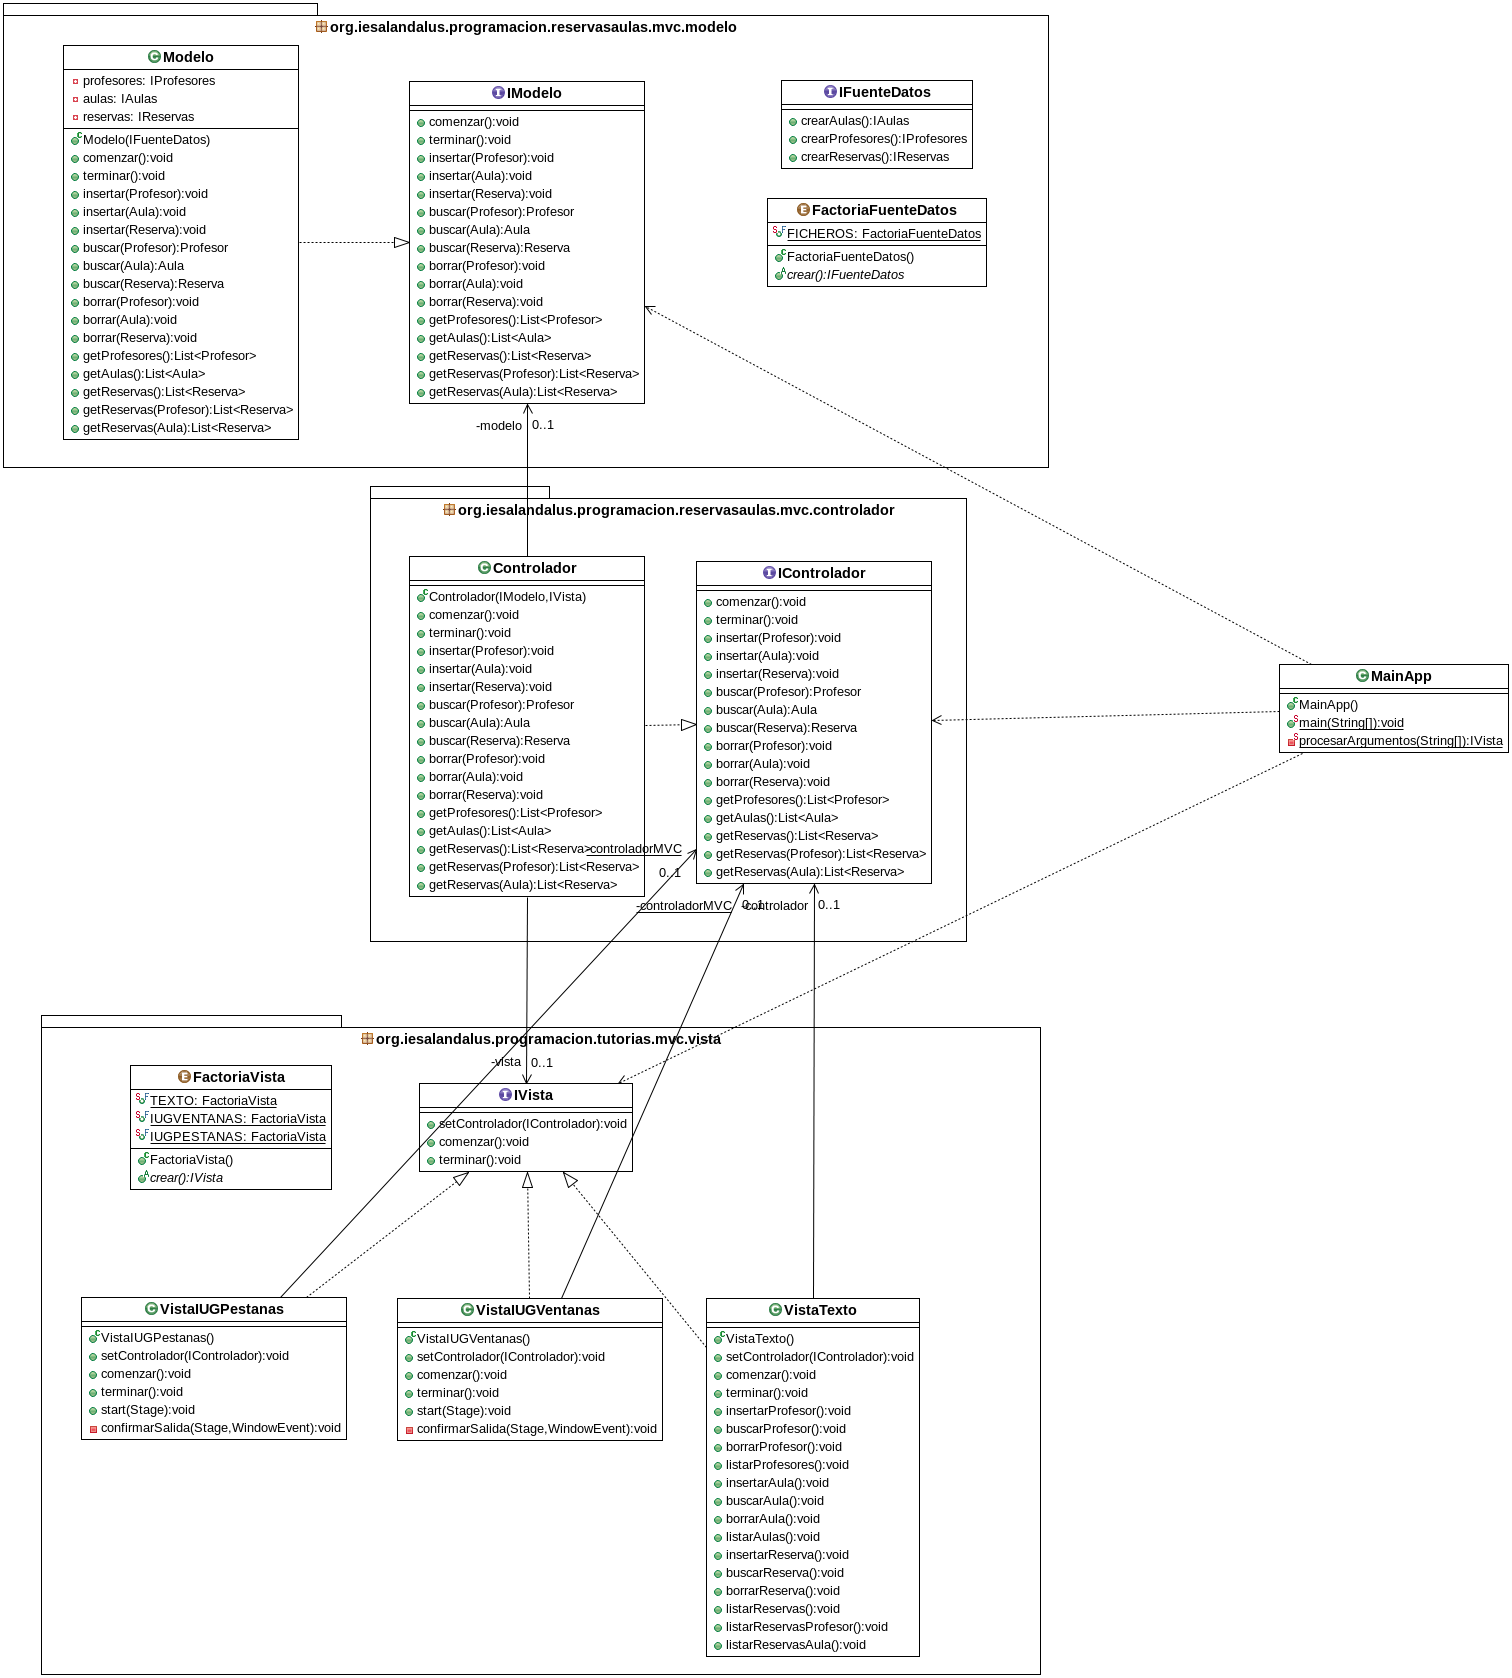
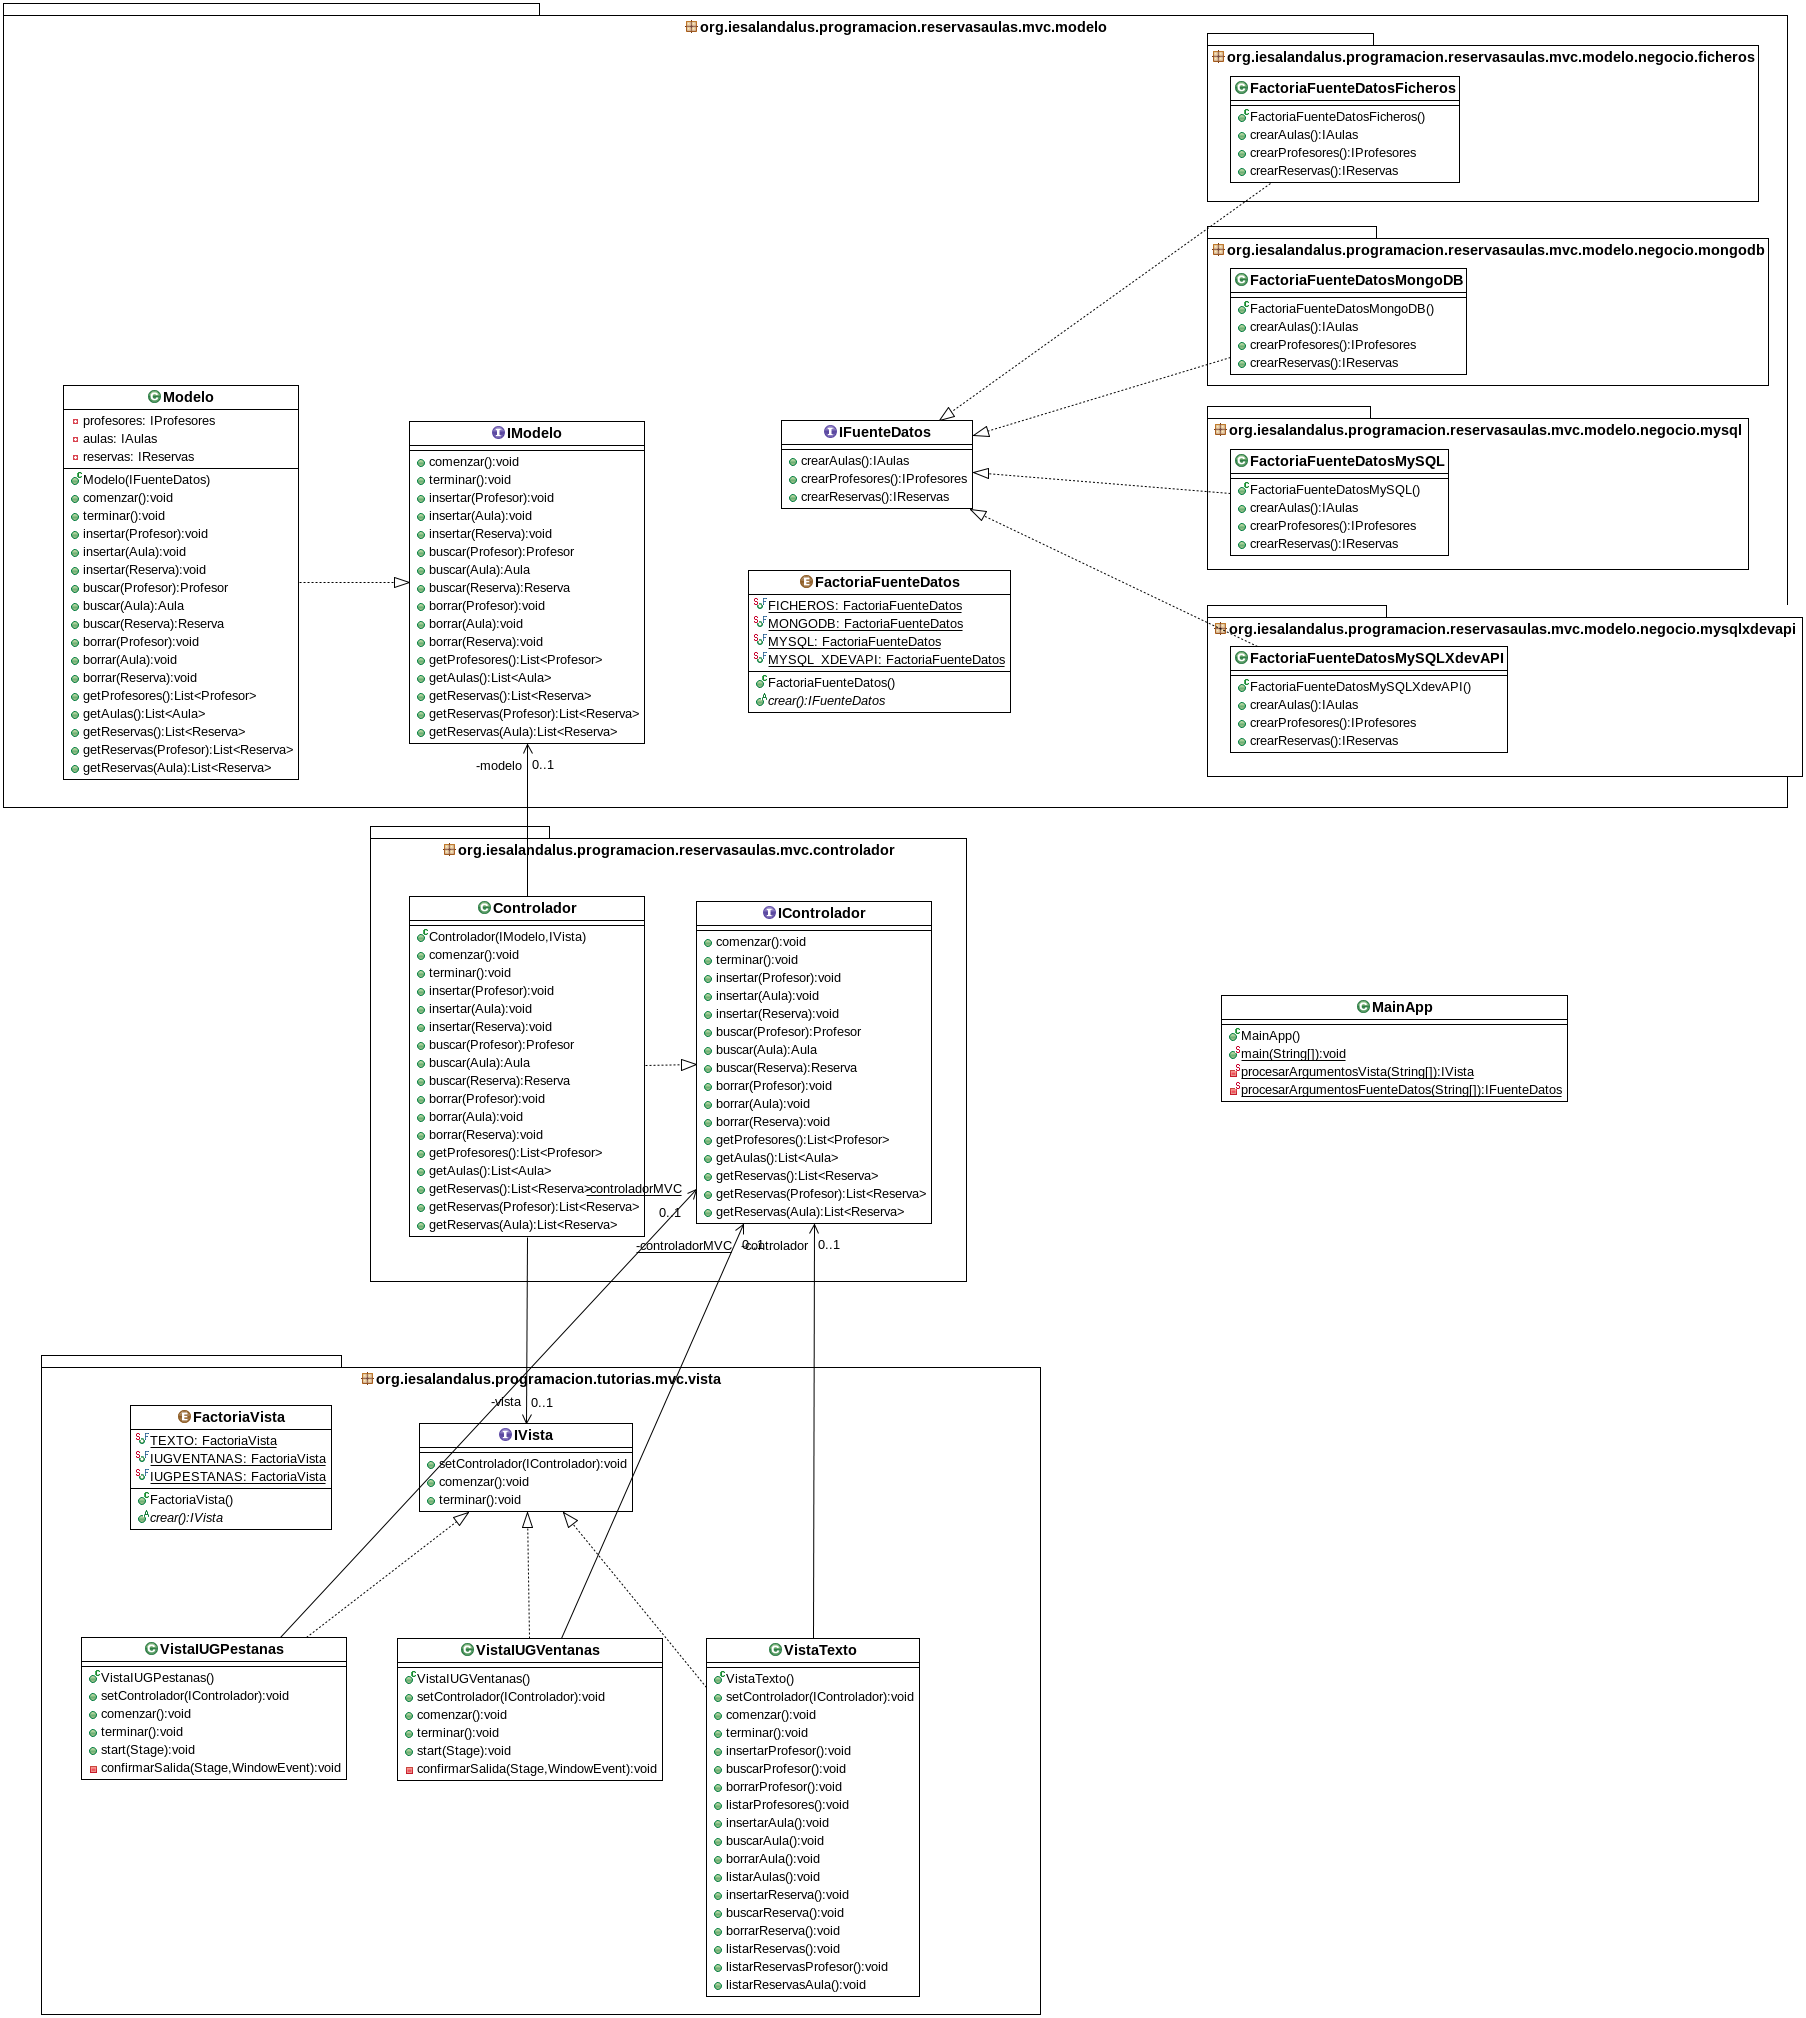
Actualización del enunciado del README.md.

diff --git a/README.md b/README.md
@@ -1,16 +1,21 @@
 # Ejemplo Tarea: Reservas de Aulas
 ## Profesor: José Ramón Jiménez Reyes
 
-Desde el IES Al-Ándalus nos comentan que necesitan gestionar la información desde una interfaz gráfica de usuario.
+Desde el IES Al-Ándalus nos comentan que necesitan que la persistencia se haga en una Base de Datos.
 
-Por tanto, en este **quinto spring** abarcaremos la interfaz gráfica de usuario.
+Por tanto, en este **sexto spring** abarcaremos tres nuevas fuentes de datos para nuestro modelo (además de la que ya teníamos).
 
-- He utilizado JavaFX para crear una interfaz gráfica que utiliza diferentes ventenas `IUGVentanas`.
-- He utilizado JavaFX para crear otra interfaz gráfica que utiliza una ventana principal y hace uso de pestañas y tablas para gestionar la información `IUGPestanas`.
-- Se puede elegir la interfaz a utilizar mediante parámetros que se pasan a la aplicación:
-    - `-vventanas` Utiliza la interfaz gráfica de ventanas.
-    - `-vpestanas` Utiliza la interfaz gráfica de pestañas y tablas. Ésta es la opción por defecto.
-    - `-vtexto` Utiliza la interfaz textual que habíamos venido utilizando anteriormente. 
+- La fuente de datos que teníamos que accedía a ficheros locales.
+- Una fuente de datos que accede a una Base de Datos MySQL de forma relacional.
+- Una fuente de datos que accede a una Base de Datos MySQL de forma NoSQL utilizando el protocolo X (o  XdevAPI) de MySQL.
+- Una fuente de datos que accede a una Base de Datos MongoDB.
+- Se puede elegir la fuente de datos a utilizar mediante parámetros que se pasan a la aplicación:
+    - `-fdficheros` Utiliza la fuente de datos de ficheros.
+    - `-fdmysql` Utiliza la fuente de datos MySQL relacional.
+    - `-fdmysqlxdevapi` Utiliza la fuente de datos MySQL accediendo mediante el protocolo X y de forma NoSQL.
+    - `-fdmongodb` Utiliza la fuente de datos MongoDB. Esta es la opción por defecto. 
+    
+Las BD están alojadas todas en un servidor remoto de Google Cloud Platform creado para este menester.
 
 Así quedaría el diagrama de clases de forma reducida:
 
